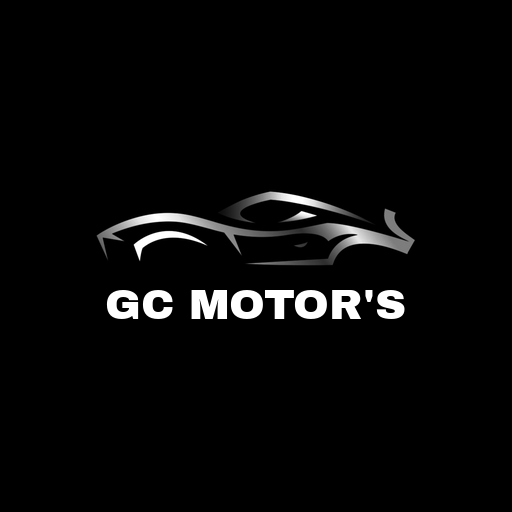
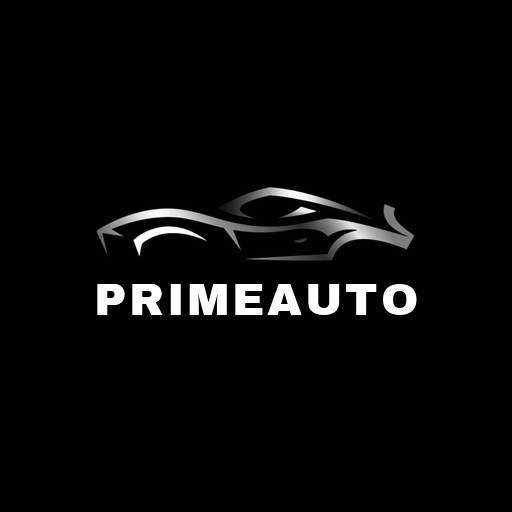
Nouveau nom de marque : PrimeAuto (app, site, icônes, PDF)
Claude-Session: https://claude.ai/code/session_01D5qFEdAa83zF7XnHL4iSSE

Changed region(s): [[0.1875, 0.3438, 0.8125, 0.625]]

diff --git a/index.html b/index.html
@@ -3,13 +3,13 @@
 <head>
 <meta charset="utf-8">
 <meta name="viewport" content="width=device-width, initial-scale=1, maximum-scale=1, user-scalable=no, viewport-fit=cover">
-<title>GC Motor's</title>
+<title>PrimeAuto</title>
 <meta name="theme-color" content="#000000">
-<meta name="apple-mobile-web-app-title" content="GC Motor's">
+<meta name="apple-mobile-web-app-title" content="PrimeAuto">
 <link rel="icon" type="image/svg+xml" href="logo.svg">
-<link rel="icon" type="image/png" href="favicon-64.png?v=7">
-<link rel="apple-touch-icon" href="apple-touch-icon.png?v=7">
-<link rel="manifest" href="manifest.webmanifest?v=7">
+<link rel="icon" type="image/png" href="favicon-64.png?v=8">
+<link rel="apple-touch-icon" href="apple-touch-icon.png?v=8">
+<link rel="manifest" href="manifest.webmanifest?v=8">
 <meta name="apple-mobile-web-app-capable" content="yes">
 <meta name="mobile-web-app-capable" content="yes">
 <meta name="apple-mobile-web-app-status-bar-style" content="black-translucent">
@@ -17,7 +17,7 @@
 <link rel="preconnect" href="https://fonts.gstatic.com" crossorigin>
 <link href="https://fonts.googleapis.com/css2?family=Barlow+Condensed:wght@500;600;700&family=IBM+Plex+Sans:wght@400;500;600&family=IBM+Plex+Mono:wght@500&display=swap" rel="stylesheet">
 <style>
-/* GC Motor's : marine profond + bleu signal + chrome. Barre latérale sur PC, barre de marque + onglets en bas sur téléphone. */
+/* PrimeAuto : marine profond + bleu signal + chrome. Barre latérale sur PC, barre de marque + onglets en bas sur téléphone. */
 :root{
   --bg:#f4f4f4; --surface:#ffffff; --surface-2:#ececec; --line:#dadada;
   --ink:#111111; --muted:#666666; --accent:#111111; --brand:#000000; --brand-ink:#ffffff; --accent-ink:#ffffff; --accent-soft:#e8e8e8;
@@ -514,7 +514,7 @@ const CHECK=[
   {g:"Achat",items:[["carpassAchat","Car-Pass vérifié"],["obd","Diagnostic OBD fait"],["essai","Essai routier fait"],["bordereau","Bordereau d'achat signé"],["docsAchat","Certificats + clés récupérés"],["registre","Inscrit au registre des achats"]]},
   {g:"Préparation",items:[["repar","Réparations faites"],["nettoyage","Nettoyage / detailing"],["ct","CT vente OK"],["carpassVente","Car-Pass de vente"],["garantie","Garantie externe souscrite"],["photos","Photos faites"],["annonce","Annonce publiée"]]},
   {g:"Vente",items:[["bon","Bon de commande / PV signé"],["paiement","Paiement reçu sur le compte"],["facture","Facture régime de la marge"],["docsVente","Documents remis à l'acheteur"],["compta","Facture transmise au comptable"]]}];
-const APP_VERSION="22.1";
+const APP_VERSION="22.2";
 const MOIS=["Janvier","Février","Mars","Avril","Mai","Juin","Juillet","Août","Septembre","Octobre","Novembre","Décembre"];
 const JTYPES=["Réparation","Entretien","Passage au garage","Contrôle technique","Pneus","Car-Pass","Transport / plateau","Garantie externe","Nettoyage / préparation","Pièces commandées","Photos","Annonce publiée","Baisse de prix","Visite / essai client","Offre reçue","Rendez-vous","Document reçu","Problème constaté","Autre"];
 const CHECKLIST=[["A. Données d'identification",["Plaquette du constructeur","Frappe à froid sur le châssis","Compteur kilométrique","Certificat d'immatriculation","C.O.C. ou certificat de conformité","Certificat de contrôle technique","Carnet d'entretien"]],
@@ -545,7 +545,7 @@ const ICONS={
[1 lines of base64/hex data omitted]
 let logoN=0;
 function logo(){const n="g"+(logoN++);return LOGO_SRC.replace(/id="(bg|chrome|blue)"/g,(m,a)=>'id="'+a+n+'"').replace(/url\(#(bg|chrome|blue)\)/g,(m,a)=>"url(#"+a+n+")").replace("<svg ",'<svg aria-hidden="true" ')}
-const WORDMARK='<div class="wm"><em>GC</em> Motors</div>';
+const WORDMARK='<div class="wm">PrimeAuto</div>';
 const HLOGO=()=>'<div class="hlogo"><img src="logo-car.png?v=2" alt="" aria-hidden="true"><span>'+esc(entNomV().toUpperCase())+'</span></div>';
 const NAV=[["tableau","Tableau de bord"],["garage","Garage"],["simulateur","Simulateur"],["ventes","Ventes"],["compta","Comptabilité"],["reglages","Réglages"]];
 
@@ -1241,7 +1241,7 @@ async function recapPdf(annexe){
   if(annexe){const cols=[["N°",M+1],["Type",M+10,0,44],["Véhicule",M+56,0,62],["Pièce",M+120,0,60]];let n=0;
     [["rev","Pièces jointes : factures de revenus"],["dep","Pièces jointes : factures de dépenses"],["aut","Pièces jointes : autres documents"]].forEach(([g,t])=>{const P=annexe.pieces.filter(x=>x.g===g);if(!P.length&&g==="aut")return;table(t+" ("+P.length+")",cols,P.map(x=>[String(++n),x.type,x.veh,x.det||""]))});
     if(annexe.manques.length)table("Pièces manquantes ("+annexe.manques.length+")",[["Type",M+1,0,50],["Véhicule",M+54,0,64],["Détail",M+120,0,60]],annexe.manques.map(x=>[x.type,x.veh,x.det||""]))}
-  doc.setFontSize(7.5);doc.setTextColor(90,96,110);doc.text("Document de travail généré par GC Motor's, à vérifier par le comptable.",M,yy);pdfPied(doc,page);
+  doc.setFontSize(7.5);doc.setTextColor(90,96,110);doc.text("Document de travail généré par PrimeAuto, à vérifier par le comptable.",M,yy);pdfPied(doc,page);
   return{blob:doc.output("blob"),name:"Recap-T"+(q+1)+"-"+y+".pdf",titre:"Récap T"+(q+1)+" "+y,doc};
 }
 let pdfLibP=null;
@@ -1640,7 +1640,7 @@ function factureModal(v){const ov=$("#overlay");
       Object.assign(v,c,{clientTel:g("fc-tel"),clientEmail:g("fc-email"),clientAdresse:g("fc-adr")});v.garPro=c.clientType==="pro"?+$("#fc-garpro").value:0;
       persistVehicle(v,true);ov.innerHTML="";const r=await facturePdf(v);if(r){apercuGen(r,"Facture "+r.num,null,{v,cat:"facturev"});if($("#doclist"))refreshFacts(v)}}};
 }
-function entNomV(){const n=String(S.settings.entNom||"").trim();return !n||/^(car occas|gc motors?)$/i.test(n)?"GC Motor\'s":n}
+function entNomV(){const n=String(S.settings.entNom||"").trim();return !n||/^(car occas|gc motor'?s?)$/i.test(n)?"PrimeAuto":n}
 function vendeurNomV(v){return v.vendeurType==="pro"?(v.vendeurSociete||""):[v.vendeurPrenom,v.vendeurNom].filter(Boolean).join(" ")}
 function vFiche(r){
   const v=curVeh(r.id);
@@ -3117,7 +3117,7 @@ function vReglages(){
   if(S.mode!=="local"&&auth&&auth.currentUser)h+='<div class="card"><h2>Compte</h2><p class="note">Connecté avec '+esc(S.email||"")+'.</p><button class="btn small" data-act="logout">Se déconnecter</button></div>';
   else if(fbReady())h+='<div class="card"><h2>Compte</h2><p class="note">Tu utilises l\'app sans compte : tes données restent sur cet appareil.</p><button class="btn small" data-act="gologin">Se connecter / créer un compte</button></div>';
   const tx=(k,l,ph,t)=>'<label class="f">'+l+'<input data-sett="'+k+'" type="'+(t||"text")+'" value="'+esc(s[k]||"")+'" placeholder="'+esc(ph||"")+'"></label>';
-  h+='<div class="card"><h2>Mon entreprise (fiches PDF)</h2><div class="form">'+tx("entNom","Nom commercial","GC Motor\'s")+tx("entTel","Téléphone","+32 …","tel")+tx("entEmail","E-mail","contact@…","email")+tx("entTva","N° de TVA","BE0…")+tx("entBce","N° d'entreprise (BCE)","0… (vide = même que la TVA)")+tx("entAdresse","Adresse","Rue, numéro, code postal, ville")+tx("entIban","IBAN","BE00 0000 0000 0000")+tx("entBic","BIC","GEBABEBB")+tx("entWeb","Site web","www.…")+tx("entWhatsapp","WhatsApp (numéro)","+32 … (vide = même que le téléphone)","tel")+'</div><p class="note" style="margin-top:8px">Ces coordonnées apparaissent sur les fiches PDF et les bons de commande. Avec l\'IBAN, le bon de commande affiche un QR code de paiement.</p></div>';
+  h+='<div class="card"><h2>Mon entreprise (fiches PDF)</h2><div class="form">'+tx("entNom","Nom commercial","PrimeAuto")+tx("entTel","Téléphone","+32 …","tel")+tx("entEmail","E-mail","contact@…","email")+tx("entTva","N° de TVA","BE0…")+tx("entBce","N° d'entreprise (BCE)","0… (vide = même que la TVA)")+tx("entAdresse","Adresse","Rue, numéro, code postal, ville")+tx("entIban","IBAN","BE00 0000 0000 0000")+tx("entBic","BIC","GEBABEBB")+tx("entWeb","Site web","www.…")+tx("entWhatsapp","WhatsApp (numéro)","+32 … (vide = même que le téléphone)","tel")+'</div><p class="note" style="margin-top:8px">Ces coordonnées apparaissent sur les fiches PDF et les bons de commande. Avec l\'IBAN, le bon de commande affiche un QR code de paiement.</p></div>';
   h+='<div class="card"><h2>Site internet</h2><p class="note">Les voitures « En vente » apparaissent toutes seules sur ton site avec leurs photos et leur prix affiché. Une voiture vendue ou retirée de la vente disparaît du site.</p><p style="margin:10px 0 0;display:flex;gap:8px;flex-wrap:wrap"><a class="btn" href="site/" target="_blank" rel="noopener">Voir mon site</a><button class="btn" data-act="vitsync">Mettre à jour le site maintenant</button></p><p class="note" id="vitstate" style="margin-top:8px">'+esc(S.vitState||"")+'</p></div>';
   h+='<div class="card"><h2>Bon de commande</h2><label class="f full">Conditions de garantie (description)<textarea data-sett="bdcConditions" rows="4">'+esc(s.bdcConditions||BDC_CONDITIONS_DEF)+'</textarea></label><label class="f full" style="margin-top:10px">Conditions générales de vente (une par ligne)<textarea data-sett="cgv" rows="10">'+esc(s.cgv||CGV_DEF)+'</textarea></label><p class="note" style="margin-top:8px">Le numéro de bon suit le format AA-0001. Prochain numéro : '+esc(String(new Date().getFullYear()).slice(2)+"-"+String((num(s.bdcSeq)||0)+1).padStart(4,"0"))+'. Fais relire tes conditions générales par un juriste ou ta fédération professionnelle.</p></div>';
   h+='<div class="card"><h2>Calculs</h2><div class="form">'+i("tva","Taux de TVA (%)","21 % en Belgique, appliqué au régime de la marge")+i("margeVisee","Marge nette visée par voiture (€)","Utilisée pour le prix d'achat maximum")+i("provGarantie","Provision garantie par voiture (€)","Mise de côté pendant la garantie")+i("cotisTrim","Cotisations sociales par trimestre (€)","Mets le montant demandé par ta caisse. Par défaut : minimum 2026 à titre principal (926,48 €)")+i("tauxImpot","Impôt à réserver (% du bénéfice)","Estimation, 30 % par défaut. À ajuster avec ton comptable")+i("dureeGarantie","Durée de garantie (mois)","12 mois minimum pour un pro en occasion")+i("seuilJours","Alerte stock après (jours)")+'</div></div>';

diff --git a/site/index.html b/site/index.html
@@ -3,14 +3,14 @@
 <head>
 <meta charset="utf-8">
 <meta name="viewport" content="width=device-width, initial-scale=1, viewport-fit=cover">
-<title>GC Motor's · Véhicules d'occasion vérifiés et garantis</title>
-<meta name="description" content="GC Motor's : véhicules d'occasion vérifiés, avec contrôle technique, Car-Pass et garantie 12 mois. Contact direct par téléphone ou WhatsApp.">
-<meta property="og:title" content="GC Motor's · Véhicules d'occasion">
+<title>PrimeAuto · Véhicules d'occasion vérifiés et garantis</title>
+<meta name="description" content="PrimeAuto : véhicules d'occasion vérifiés, avec contrôle technique, Car-Pass et garantie 12 mois. Contact direct par téléphone ou WhatsApp.">
+<meta property="og:title" content="PrimeAuto · Véhicules d'occasion">
 <meta property="og:description" content="Véhicules d'occasion vérifiées, contrôle technique, Car-Pass et garantie 12 mois.">
 <meta property="og:type" content="website">
 <meta name="theme-color" content="#000000">
-<link rel="icon" href="favicon.png">
-<link rel="apple-touch-icon" href="apple-touch-icon.png">
+<link rel="icon" href="favicon.png?v=2">
+<link rel="apple-touch-icon" href="apple-touch-icon.png?v=2">
 <link rel="preconnect" href="https://fonts.googleapis.com"><link rel="preconnect" href="https://fonts.gstatic.com" crossorigin>
 <link href="https://fonts.googleapis.com/css2?family=Archivo+Black&family=Inter:wght@400;500;600;700&display=swap" rel="stylesheet">
 <style>
@@ -594,7 +594,7 @@ header.scrolled .hbar{height:58px}
 <div id="pgwipe" aria-hidden="true"><div class="pgcar"><img src="logo-car.png" alt=""></div></div>
 <header><div class="wrap hbar">
   <button type="button" class="burger" id="burger" aria-label="Ouvrir le menu" aria-expanded="false"><span></span><span></span><span></span></button>
-  <a class="logo" href="#top" aria-label="GC Motor's, accueil"><img src="logo-car.png" alt=""><span class="brandtxt" id="hname">GC Motor's</span></a>
+  <a class="logo" href="#top" aria-label="PrimeAuto, accueil"><img src="logo-car.png" alt=""><span class="brandtxt" id="hname">PrimeAuto</span></a>
   <span class="hsp"></span>
   <nav class="tnav tl" aria-label="Menu"><a href="#top" data-nav="home">Accueil</a><a href="#occasions" data-nav="occ">Nos occasions</a></nav>
   <nav class="tnav tr" aria-label="Menu"><a href="#estimation" data-nav="est">Vendre mon véhicule</a><a href="#contact" data-nav="contact">Contact</a></nav>
@@ -668,7 +668,7 @@ header.scrolled .hbar{height:58px}
     <p class="hnote">Nous sommes parfois en rendez-vous à l'extérieur : un petit appel avant de passer, et on vous attend.</p></div>
 </div></section>
 </main>
-<footer><div class="wrap fbar"><span id="fname">© GC Motor's</span><span id="ftva"></span></div></footer>
+<footer><div class="wrap fbar"><span id="fname">© PrimeAuto</span><span id="ftva"></span></div></footer>
 <a class="fwa" id="fwa" href="#contact" target="_blank" rel="noopener" aria-label="Écrire sur WhatsApp"><svg viewBox="0 0 24 24"><path fill="currentColor" d="M12 2a10 10 0 0 0-8.6 15.1L2 22l5-1.3A10 10 0 1 0 12 2zm5.3 14.1c-.2.6-1.3 1.2-1.8 1.2-.5.1-1 .1-3.3-.8-2.8-1.1-4.5-3.9-4.7-4.1-.1-.2-1.1-1.5-1.1-2.8s.7-2 1-2.3c.2-.3.5-.3.7-.3h.5c.2 0 .4 0 .6.5l.8 2c.1.2.1.4 0 .5l-.3.5-.4.4c-.1.1-.3.3-.1.6.2.3.8 1.3 1.7 2.1 1.2 1 2.1 1.3 2.4 1.5.3.1.5.1.6-.1l.9-1c.2-.3.4-.2.7-.1l1.9.9c.3.1.5.2.5.3.1.1.1.6-.1 1.1z"/></svg></a>
 <div class="ov" id="ov" role="dialog" aria-modal="true" aria-label="Détail du véhicule"></div>
 
@@ -683,7 +683,7 @@ const fE=new Intl.NumberFormat("fr-BE",{style:"currency",currency:"EUR",maximumF
 const eur=n=>n?(Number.isInteger(n)?fE:fE2).format(n):"Prix sur demande";
 const km=n=>n?fN.format(n)+" km":"";
 /* coordonnées par défaut (remplacées par celles de l'app dès qu'elles sont publiées) */
-const DEF_INFO={nom:"GC Motor's",tel:"+32 472 24 11 00",email:"collignon.guillian@gmail.com",whatsapp:"+32472241100",adresse:"",tva:"",garantie:12};
+const DEF_INFO={nom:"PrimeAuto",tel:"+32 472 24 11 00",email:"collignon.guillian@gmail.com",whatsapp:"+32472241100",adresse:"",tva:"",garantie:12};
 let CARS=[],INFO={...DEF_INFO};
 const ICON={tel:'<svg viewBox="0 0 24 24"><path fill="currentColor" d="M6.6 10.8a15.1 15.1 0 0 0 6.6 6.6l2.2-2.2a1 1 0 0 1 1-.25 11.4 11.4 0 0 0 3.6.57 1 1 0 0 1 1 1V20a1 1 0 0 1-1 1A17 17 0 0 1 3 4a1 1 0 0 1 1-1h3.5a1 1 0 0 1 1 1c0 1.25.2 2.45.57 3.57a1 1 0 0 1-.25 1z"/></svg>',
  wa:$("#fwa").innerHTML,
@@ -697,7 +697,7 @@ const waLink=c=>INFO.whatsapp?"https://wa.me/"+waNum(INFO.whatsapp)+"?text="+enc
 const telLink=()=>INFO.tel?"tel:"+digits(INFO.tel):"#contact";
 const mailLink=c=>INFO.email?"mailto:"+INFO.email+"?subject="+encodeURIComponent(c?"Demande : "+title(c):"Demande d'information")+"&body="+encodeURIComponent(msg(c)):"#contact";
 
-function applyInfo(){const n=INFO.nom||"GC Motor's";$("#hname").textContent=n;document.title=n+" · Véhicules d'occasion vérifiés et garantis";
+function applyInfo(){if(/gc motor/i.test(INFO.nom||""))INFO.nom="PrimeAuto";const n=INFO.nom||"PrimeAuto";$("#hname").textContent=n;document.title=n+" · Véhicules d'occasion vérifiés et garantis";
   document.querySelectorAll(".gmo").forEach(e=>e.textContent=INFO.garantie||12);
   
   const it=(cls,href,ic,lab,val,ext)=>'<a class="ci '+cls+'" href="'+href+'"'+(ext?' target="_blank" rel="noopener"':'')+'><span class="ic">'+ic+'</span><span><small>'+lab+'</small><b>'+esc(val)+'</b></span></a>';
@@ -734,7 +734,7 @@ function apArrows(){const t=$("#aptrack");$("#apL").disabled=t.scrollLeft<8;$("#
 function apStep(d){const t=$("#aptrack"),c=t.querySelector(".card");const w=c?c.getBoundingClientRect().width+20:t.clientWidth;t.scrollBy({left:d*w,behavior:"smooth"})}
 function pageFx(from,to){if(matchMedia("(prefers-reduced-motion: reduce)").matches)return;const O={home:0,occ:1,est:3},ix=x=>x&&x.startsWith("car")?2:(O[x]??0),dir="bw",m=document.querySelector("main"),w=$("#pgwipe");[m,w].forEach(el=>{if(!el)return;el.classList.remove("pgin","fw","bw");void el.offsetWidth;el.classList.add("pgin",dir)})}
 let lastOcc=null,loaded=false;function showPage(){const h=location.hash,m=h.match(/^#v-(.+)$/),pg=m?"car:"+m[1]:h==="#occasions"?"occ":h==="#estimation"?"est":"home";closeLb();document.body.classList.toggle("page-est",pg==="est");if(pg==="est"){const rf=$("#rpformE");if(!rf.innerHTML||RPR!==rf)rpInit(null,rf,"rpe")}
-  document.body.classList.toggle("page-occ",pg==="occ");document.body.classList.toggle("page-car",!!m);if(m)renderAnnonce(m[1]);else{curCar=null;document.title=(INFO.nom||"GC Motor's")+" · Véhicules d'occasion vérifiés et garantis"}
+  document.body.classList.toggle("page-occ",pg==="occ");document.body.classList.toggle("page-car",!!m);if(m)renderAnnonce(m[1]);else{curCar=null;document.title=(INFO.nom||"PrimeAuto")+" · Véhicules d'occasion vérifiés et garantis"}
   if(lastOcc!==null&&pg!==lastOcc){scrollTo({top:0,behavior:"instant"});pageFx(lastOcc,pg)}lastOcc=pg;document.querySelectorAll("nav .nl").forEach(a=>a.style.opacity=a.getAttribute("href")===location.hash?"1":"")}
 function fillBrands(){const s=$("#fbrand"),cur=s.value,B=[...new Set(CARS.map(c=>c.marque).filter(Boolean))].sort();s.innerHTML='<option value="">Toutes les marques</option>'+B.map(b=>'<option'+(b===cur?" selected":"")+'>'+esc(b)+'</option>').join("");s.style.display=B.length>1?"":"none"}
 
@@ -786,7 +786,7 @@ function annonceHtml(c){const P=c.photos||[],g=c.garantie||INFO.garantie||12;
    '</div><div class="dbar">'+(INFO.tel?'<a class="btn b-black" href="'+telLink()+'">'+ICON.tel+'Appeler</a>':'')+(INFO.email?'<a class="btn b-line" href="'+mailLink(c)+'">'+ICON.mail+'E-mail</a>':'')+'</div>'}
 function renderAnnonce(id){const c=CARS.find(x=>x.id===id);const box=$("#annonce");curCar=c||null;
   if(!c){box.innerHTML='<div class="wrap an"><div class="empty"><h3>'+(CARS.length||loaded?"Ce véhicule n'est plus en vente":"Chargement…")+'</h3>'+(CARS.length||loaded?'<p>Il vient peut-être d\'être vendu. Découvrez nos autres occasions.</p><div class="hacts"><a class="btn b-black" href="#occasions">Voir nos occasions</a></div>':'')+'</div></div>';return}
-  document.title=title(c)+(c.annee?" "+c.annee:"")+" · "+(INFO.nom||"GC Motor's");
+  document.title=title(c)+(c.annee?" "+c.annee:"")+" · "+(INFO.nom||"PrimeAuto");
   box.innerHTML=annonceHtml(c);reveal();
   const trk=$("#atrk");if(trk){const n=(c.photos||[]).length,upd=()=>{const i=Math.round(trk.scrollLeft/trk.clientWidth);$("#agc").textContent=(i+1)+" / "+n;document.querySelectorAll("#athb img").forEach((t,k)=>{t.classList.toggle("on",k===i);if(k===i)t.scrollIntoView({block:"nearest",inline:"nearest"})})};trk.addEventListener("scroll",()=>requestAnimationFrame(upd),{passive:true})}}
 $("#annonce").addEventListener("click",e=>{const g=e.target.closest("[data-ag]"),t=e.target.closest("[data-at]"),lb=e.target.closest("[data-lb]"),sh=e.target.closest("[data-share]"),cd=e.target.closest(".card"),trk=$("#atrk");

diff --git a/sw.js b/sw.js
@@ -1,5 +1,5 @@
-// GC Motors : met l'app en cache pour l'ouvrir même sans réseau. Les données passent par Firebase.
-const CACHE = "gc-motors-v42";
+// PrimeAuto : met l'app en cache pour l'ouvrir même sans réseau. Les données passent par Firebase.
+const CACHE = "gc-motors-v43";
 const SHELL = ["./", "index.html", "manifest.webmanifest", "firebase-config.js", "icon-192.png", "icon-512.png", "logo.svg", "apple-touch-icon.png"];
 self.addEventListener("install", e => { e.waitUntil(caches.open(CACHE).then(c => c.addAll(SHELL)).then(() => self.skipWaiting())); });
 self.addEventListener("activate", e => { e.waitUntil(caches.keys().then(ks => Promise.all(ks.filter(k => k !== CACHE).map(k => caches.delete(k)))).then(() => self.clients.claim())); });

diff --git a/site/estim.js b/site/estim.js
@@ -1,4 +1,4 @@
-/* Généré automatiquement depuis l'app GC Motor's : ne pas modifier à la main. */
+/* Généré automatiquement depuis l'app PrimeAuto : ne pas modifier à la main. */
 (function(){
 const num=v=>{const n=parseFloat(String(v??"").replace(",","."));return isNaN(n)?0:n};
 const CATALOGUE={

diff --git a/README.md b/README.md
@@ -1,4 +1,4 @@
-# GC Motor's
+# PrimeAuto
 
 Application d'achat-revente de voitures (garage, marges, ventes, garanties), installable sur téléphone et PC.
 
